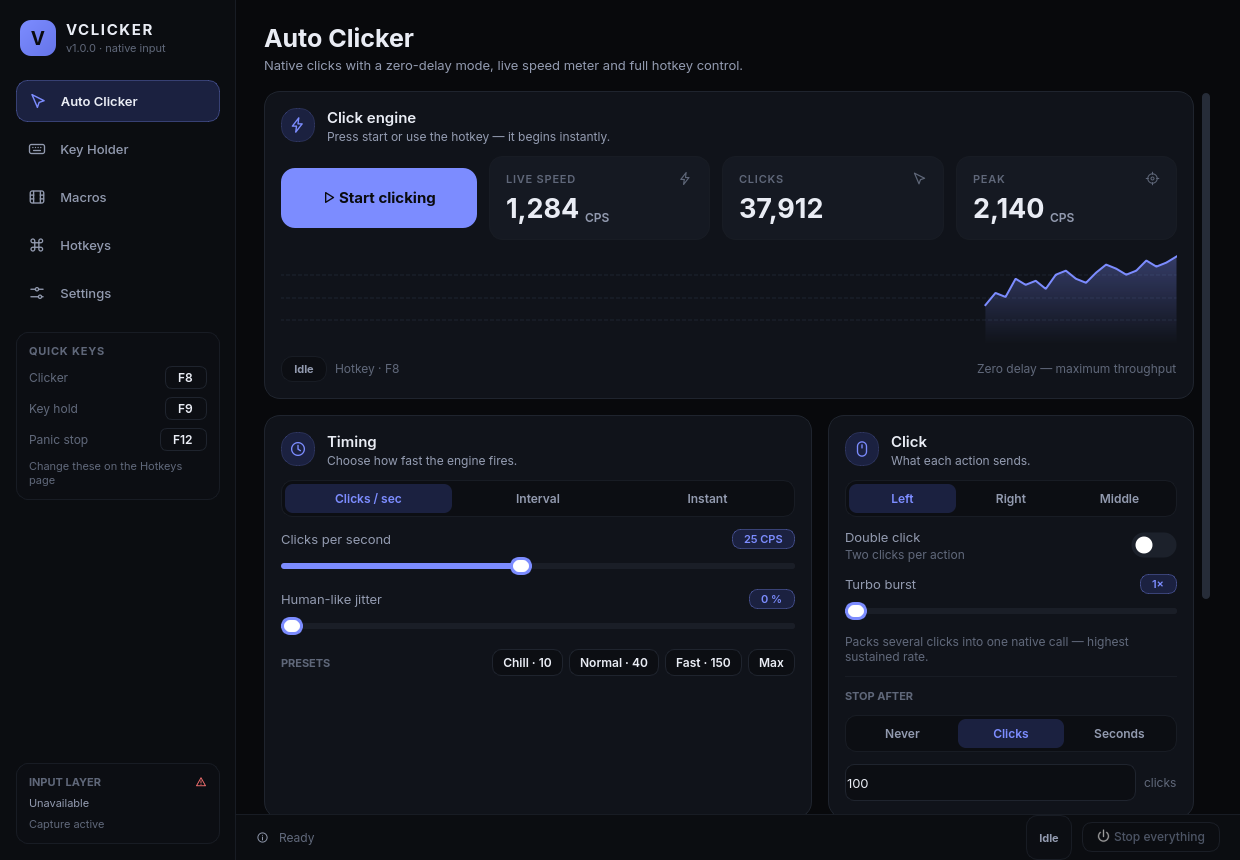
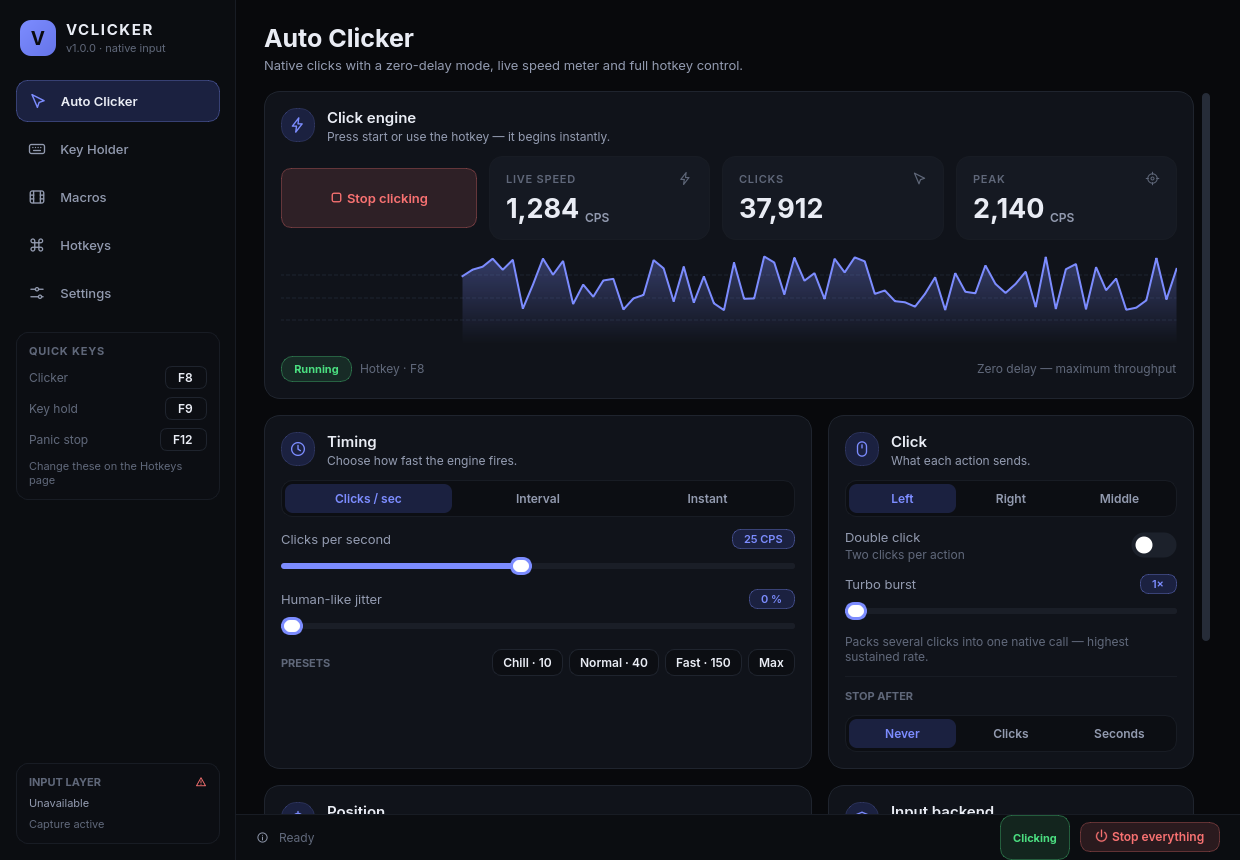
Fix silent 100-click limit, polish screenshots and packaging
- Clicker limit is now stored explicitly (none/clicks/seconds) instead of
  being inferred from a leftover default, which made the clicker stop after
  100 clicks on a fresh install
- CpsGraph paints its own background (no stale empty-state text)
- Accent changes recolor the sidebar logo and persist to config
- Sidebar quick-keys refresh when a hotkey is rebound; Esc panics for every
  action, not just the clicker; playback stops the clicker first
- Windows: SendInput now includes the scan code and the hook thread creates
  its message queue up front
- Docs: hero/secondary screenshots, README, pyproject, .gitignore, run.pyw,
  build_exe.py; assets moved inside the package so pip installs include them

diff --git a/tools/preview.py b/tools/preview.py
@@ -9,6 +9,7 @@ import os
 import random
 import sys
 import tempfile
+import time
 
 os.environ.setdefault("QT_QPA_PLATFORM", "offscreen")
 sys.path.insert(0, os.path.dirname(os.path.dirname(os.path.abspath(__file__))))
@@ -75,8 +76,9 @@ def main() -> int:
     from vclicker.ui.pages.keyholder_page import KeyHolderPage
 
     clicker = next(p for p in window.pages if isinstance(p, ClickerPage))
-    for value in (18, 24, 22, 31, 28, 30, 26, 33, 35, 31, 29, 34, 38, 36, 33, 35, 40, 37, 39, 42):
-        clicker.graph.push(value)
+    random.seed(5)
+    for _ in range(72):
+        clicker.graph.push(random.uniform(16, 44))
     clicker.tile_speed.set_value("1,284")
     clicker.tile_total.set_value("37,912")
     clicker.tile_peak.set_value("2,140")
@@ -92,9 +94,28 @@ def main() -> int:
     macros.list.setCurrentRow(0)
     macros._on_selection(macros.list.currentItem(), None)
 
+    # shot 1 shows the live state; the real "running" flag needs a live thread,
+    # so fake the property for the screenshot only.
+    from vclicker.core.clicker import AutoClicker
+    AutoClicker.running = property(lambda self: True)
+    clicker._on_state(True)
+    random.seed(5)
+    for _ in range(72):
+        clicker.graph.push(random.uniform(16, 44))
+    clicker.tile_speed.set_value("1,284")
+    clicker.tile_total.set_value("37,912")
+    clicker.tile_peak.set_value("2,140")
+    clicker.runtime_hint.setText("Zero delay — maximum throughput")
+    window._refresh_global_state()
+    app.processEvents()
+
     from vclicker.ui.main_window import NAV
 
     for index, (_key, text, _icon, _cls) in enumerate(NAV):
+        if index == 1:
+            AutoClicker.running = property(lambda self: self._thread is not None)
+            clicker._on_state(False)
+            window._refresh_global_state()
         window.set_page(index)
         app.processEvents()
         page = window.stack.currentWidget()
@@ -109,15 +130,35 @@ def main() -> int:
         path = os.path.join(outdir, f"{index + 1}-{text.lower().replace(' ', '-')}.png")
         pixmap.save(path)
         print("saved", path)
+        if index == 0:
+            window.resize(1240, 1180)
+            app.processEvents()
+            window.grab().save(os.path.join(outdir, "0-hero.png"))
+            print("saved", os.path.join(outdir, "0-hero.png"))
+            window.resize(1240, 860)
+            app.processEvents()
 
-    # detail: clicker page with running state
+    # detail: key holder with keys held
+    window.set_page(1)
+    keyholder.target_seg.set_value("windows", emit=True)
+    keyholder.picker._windows = fake_windows()      # switching target re-scans
+    keyholder.picker.set_selection(fake_windows())
+    keyholder.cfg.windows = list(fake_windows())
+    ctx.keyholder._active = True
+    ctx.keyholder._keys = ["space"]
+    ctx.keyholder._windows = list(fake_windows())
+    keyholder._held_since = time.monotonic() - 12.0
+    keyholder._on_state(True)
+    window._refresh_global_state()
+    app.processEvents()
+    app.processEvents()
+    window.grab().save(os.path.join(outdir, "6-keyholder-holding.png"))
+    print("saved", os.path.join(outdir, "6-keyholder-holding.png"))
+    ctx.keyholder._active = False
+    keyholder._on_state(False)
+    window._refresh_global_state()
     window.set_page(0)
     app.processEvents()
-    clicker._on_state(True)
-    clicker.status.set_state("live", "Running")
-    app.processEvents()
-    window.grab().save(os.path.join(outdir, "6-clicker-running.png"))
-    print("saved", os.path.join(outdir, "6-clicker-running.png"))
 
     # diagnostics dialog
     from vclicker.ui.pages.settings_page import DiagnosticsDialog

diff --git a/vclicker/ui/pages/clicker_page.py b/vclicker/ui/pages/clicker_page.py
@@ -209,7 +209,8 @@ class ClickerPage(Page):
     # ------------------------------------------------------------------ #
     def _build_backend_card(self) -> None:
         backend = self.ctx.backend
-        card = Card("Input backend", backend.describe(), "shield")
+        card = Card("Input backend", "How clicks and keys reach your operating system.",
+                    "shield")
         caps = backend.caps
 
         rows = QWidget()
@@ -347,6 +348,7 @@ class ClickerPage(Page):
         try:
             mode = self.limit_seg.value()
             value = int(self.limit_spin.value())
+            self.cfg.limit_mode = mode
             self.cfg.limit_clicks = value if mode == "clicks" else 0
             self.cfg.limit_seconds = float(value) if mode == "seconds" else 0.0
             self.ctx.persist_clicker()
@@ -427,15 +429,18 @@ class ClickerPage(Page):
         self.double_row.setChecked(cfg.double)
         self.pos_seg.set_value(cfg.position)
 
-        if cfg.limit_clicks:
+        mode = cfg.limit_mode if cfg.limit_mode in ("none", "clicks", "seconds") else "none"
+        if mode == "none":                       # tolerate older configs
+            mode = "clicks" if cfg.limit_clicks else ("seconds" if cfg.limit_seconds else "none")
+        if mode == "clicks":
             self.limit_seg.set_value("clicks")
             self.limit_spin.setRange(1, 1000000)
-            self.limit_spin.setValue(int(cfg.limit_clicks))
+            self.limit_spin.setValue(int(cfg.limit_clicks) or 100)
             self.limit_suffix.setText("clicks")
-        elif cfg.limit_seconds:
+        elif mode == "seconds":
             self.limit_seg.set_value("seconds")
             self.limit_spin.setRange(1, 86400)
-            self.limit_spin.setValue(int(cfg.limit_seconds))
+            self.limit_spin.setValue(int(cfg.limit_seconds) or 10)
             self.limit_suffix.setText("seconds")
         else:
             self.limit_seg.set_value("none")

diff --git a/vclicker/core/backend_win.py b/vclicker/core/backend_win.py
@@ -213,7 +213,10 @@ def _mouse_input(flags: int, dx: int = 0, dy: int = 0, data: int = 0) -> INPUT:
 def _key_input(vk: int, flags: int = 0) -> INPUT:
     item = INPUT()
     item.type = INPUT_KEYBOARD
-    item.ki = KEYBDINPUT(vk & 0xFFFF, 0, flags, 0, 0)
+    # Including the hardware scan code makes the event look native to apps that
+    # inspect the key message (and to DirectInput-style polling).
+    scan = user32.MapVirtualKeyW(vk, 0) & 0xFF
+    item.ki = KEYBDINPUT(vk & 0xFFFF, scan, flags, 0, 0)
     return item
 
 
@@ -558,6 +561,10 @@ class WindowsMonitor(BaseMonitor):
         self._kb_proc_ref = _HOOKPROC(kb_proc)
         self._ms_proc_ref = _HOOKPROC(ms_proc)
         try:
+            # Force this thread's message queue into existence so a very early
+            # stop() cannot lose the WM_QUIT.
+            peek = wintypes.MSG()
+            user32.PeekMessageW(ctypes.byref(peek), None, 0, 0, 0)
             self._kb_hook = user32.SetWindowsHookExW(WH_KEYBOARD_LL, self._kb_proc_ref, module, 0)
             self._ms_hook = user32.SetWindowsHookExW(WH_MOUSE_LL, self._ms_proc_ref, module, 0)
             if not self._kb_hook:

diff --git a/vclicker/context.py b/vclicker/context.py
@@ -90,9 +90,9 @@ class AppContext(QObject):
         data.update({
             "mode": cfg.mode, "cps": cfg.cps, "ms": cfg.ms, "button": cfg.button,
             "double": cfg.double, "burst": cfg.burst,
-            "limit_mode": "clicks" if cfg.limit_clicks else ("seconds" if cfg.limit_seconds else "none"),
-            "limit_clicks": cfg.limit_clicks or 100,
-            "limit_seconds": cfg.limit_seconds or 10.0,
+            "limit_mode": cfg.limit_mode,
+            "limit_clicks": cfg.limit_clicks,
+            "limit_seconds": cfg.limit_seconds,
             "position": cfg.position, "x": cfg.x, "y": cfg.y, "jitter": cfg.jitter,
         })
         self._save_timer.start()

diff --git a/vclicker/ui/widgets.py b/vclicker/ui/widgets.py
@@ -474,6 +474,7 @@ class CpsGraph(QWidget):
     def paintEvent(self, event) -> None:
         painter = QPainter(self)
         painter.setRenderHint(QPainter.RenderHint.Antialiasing, True)
+        painter.fillRect(self.rect(), QColor(theme.CARD))
         rect = QRectF(self.rect()).adjusted(0.5, 0.5, -0.5, -0.5)
         main, _h, _p, _soft, _l = theme.accent_tuple(_accent_name())
         base = QColor("#1D2430")

diff --git a/vclicker/core/clicker.py b/vclicker/core/clicker.py
@@ -21,6 +21,7 @@ class ClickerConfig:
     button: str = "left"
     double: bool = False
     burst: int = 1               # clicks crammed into one SendInput/event call
+    limit_mode: str = "none"     # "none" | "clicks" | "seconds"
     limit_clicks: int = 0        # 0 = unlimited
     limit_seconds: float = 0.0   # 0 = unlimited
     position: str = "cursor"     # "cursor" | "fixed"

diff --git a/vclicker/config.py b/vclicker/config.py
@@ -28,8 +28,8 @@ DEFAULTS: dict[str, Any] = {
         "double": False,
         "burst": 1,
         "limit_mode": "none",
-        "limit_clicks": 100,
-        "limit_seconds": 10.0,
+        "limit_clicks": 0,
+        "limit_seconds": 0.0,
         "position": "cursor",
         "x": 0,
         "y": 0,

diff --git a/README.md b/README.md
@@ -4,7 +4,7 @@
 
 VClicker talks straight to the operating system (`SendInput` on Windows, `XTest` on X11, `CoreGraphics` on macOS) through Python's `ctypes`, so there is no interpreter overhead between your click and the OS. The only third-party dependency is Qt 6 for the interface.
 
-![Auto clicker page](docs/screenshots/1-auto-clicker.png)
+![VClicker auto clicker](docs/screenshots/0-hero.png)
 
 ---
 
@@ -103,6 +103,8 @@ The result is `dist/VClicker.exe` with the fonts, icons and Qt runtime embedded.
 2. Choose **Until released** or **Timed** (auto-release after *N* seconds).
 3. Choose **Active window** (send to whatever has focus) or **Selected windows**.
 4. With *Selected windows*, tick as many open windows as you like — the key is held on all of them simultaneously, without stealing focus.
+
+![Holding a key on five windows](docs/screenshots/6-keyholder-holding.png)
 
 *Platform notes:* on Windows the keys are delivered with `PostMessage`, so target windows stay in the background. On X11 the selected windows are focused in turn (X11 has no safe background key delivery). DirectInput/Raw Input games ignore synthetic messages — use *Active window* for those.
 
